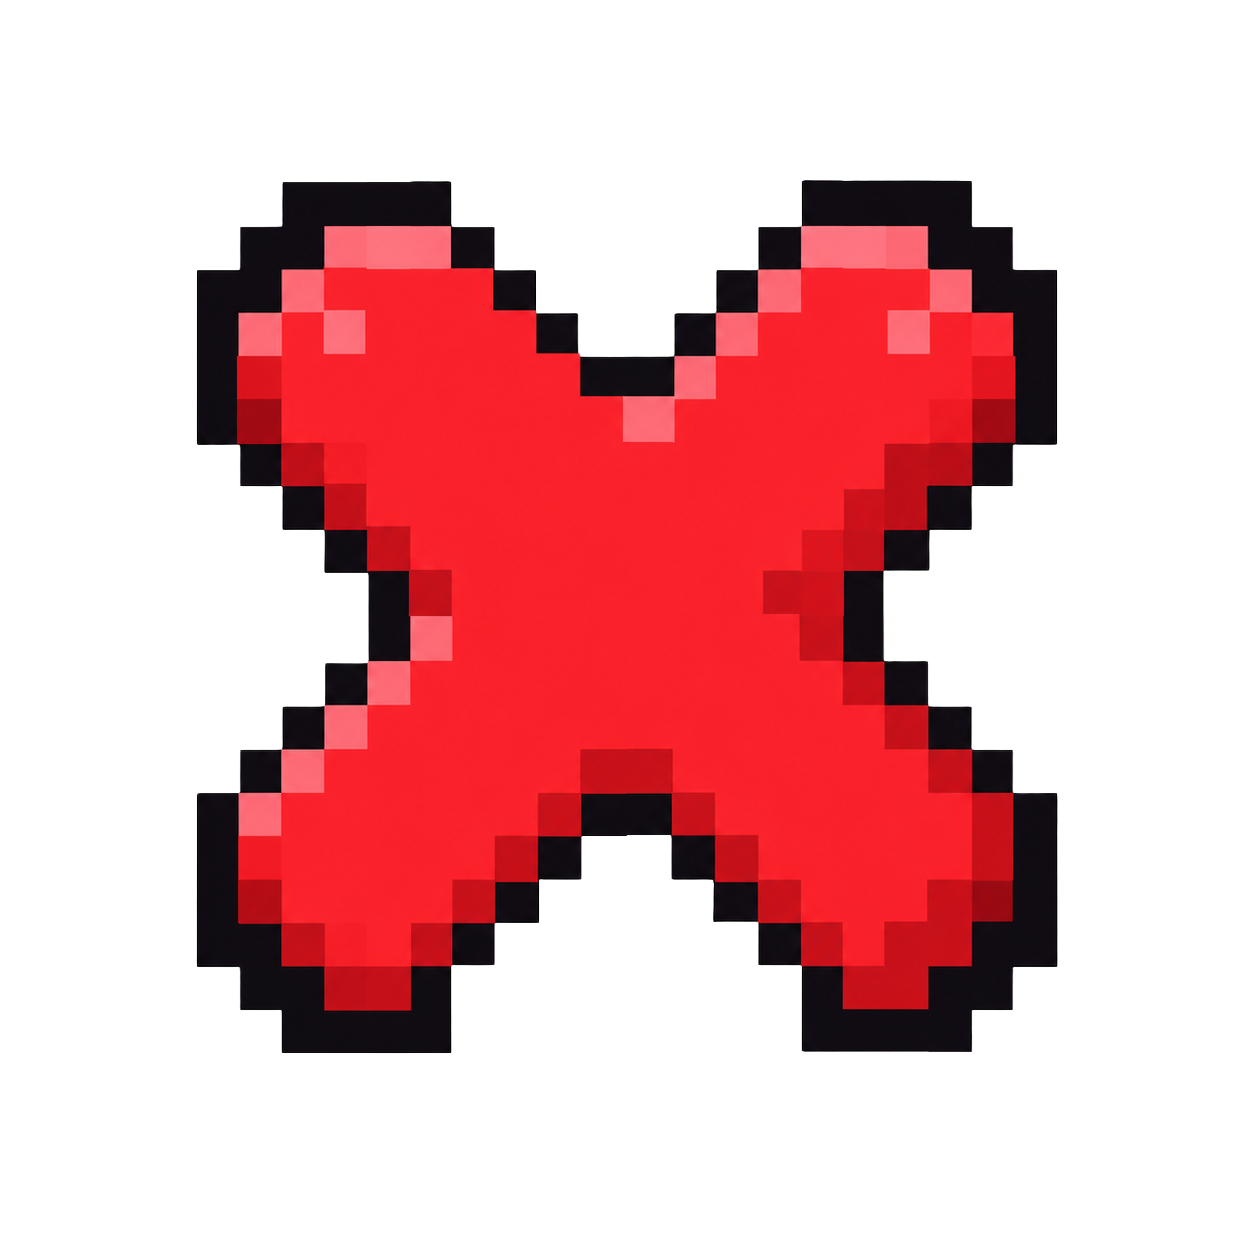
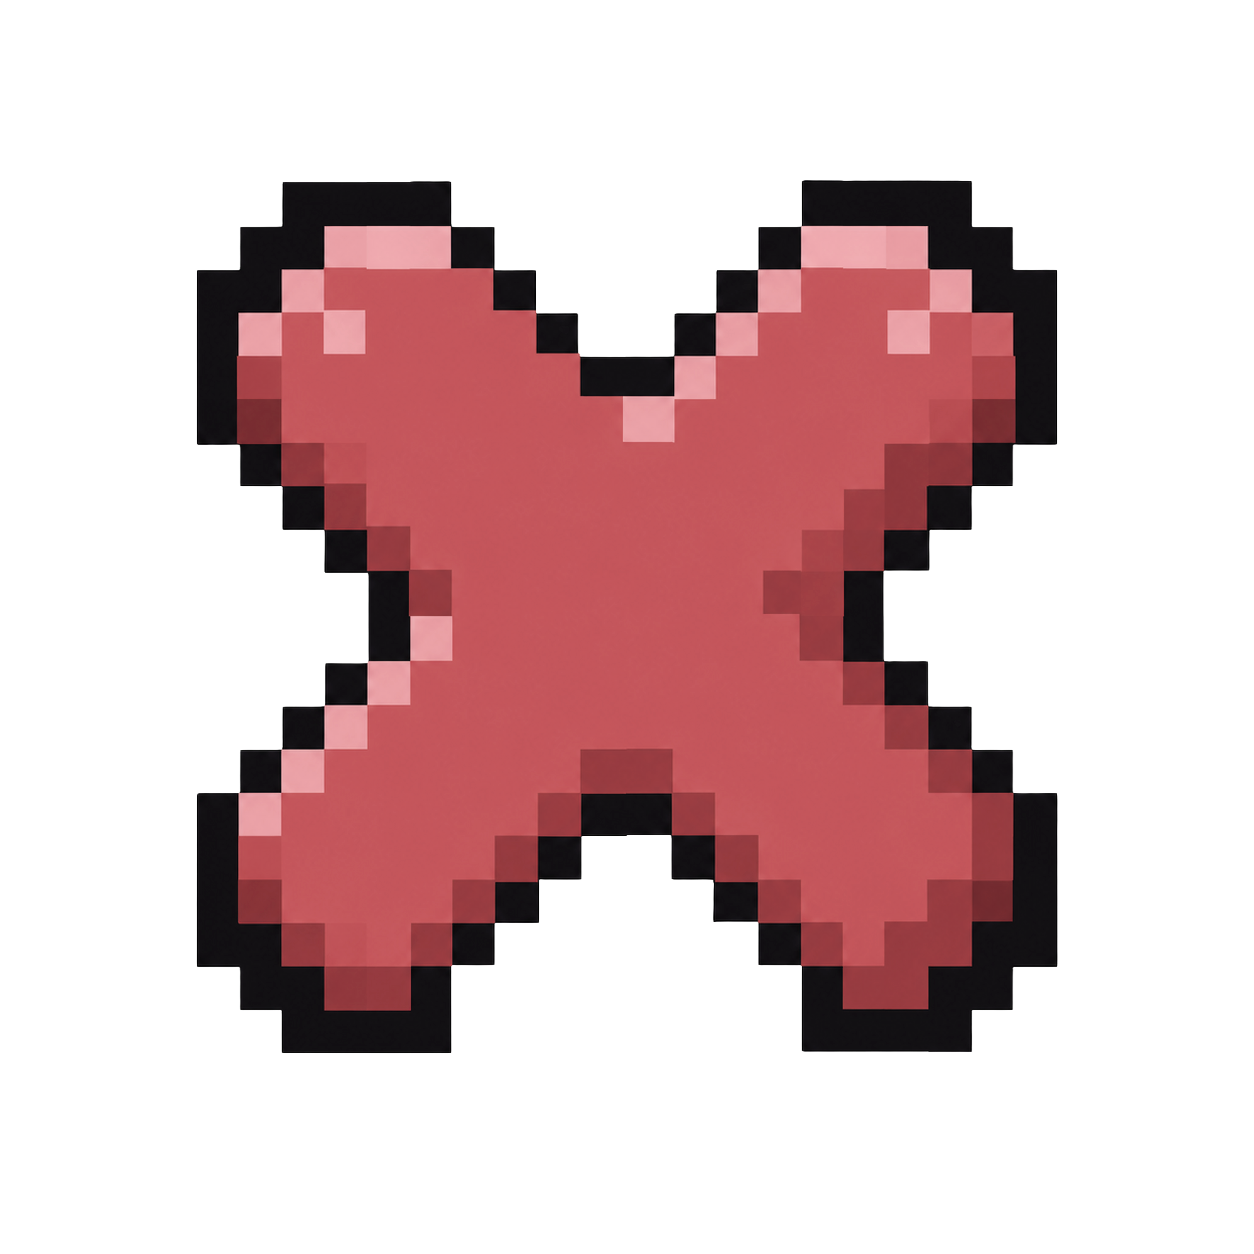
fix/Camp 튜토리얼 및 시작·귀가 버튼 UI 조정

Changed region(s): [[0.1866, 0.1555, 0.8086, 0.8086]]

diff --git a/Assets/Scripts/Editor/SceneFlowUIBuilder.cs b/Assets/Scripts/Editor/SceneFlowUIBuilder.cs
@@ -151,7 +151,7 @@ namespace DontLate.EditorTools
             Transform root = CreateFlowCanvas().transform;
 
             if (sceneName == "Camp")
-                CreateTutorialBanner(root, labelText, font);
+                CreateTutorialBanner(root, labelText, font, -94f, "tutorial");
             else
             {
                 TMP_Text label = CreateText(root, "Label", labelText, font, 46f, Color.white,
@@ -183,8 +183,7 @@ namespace DontLate.EditorTools
                 TextAlignmentOptions.Top, FontStyles.Normal);
             AnchorCorner(label.rectTransform, new Vector2(0.5f, 1f), new Vector2(0f, -78f), new Vector2(1000f, 72f)); // S-030 ②: 상단 중앙 — HUD 카드(좌상)와 중첩 소멸
 
-            CreateButton(root, "AdvanceButton", "하루 시작 → 물류캠프", GameScene.Camp, font, CYAN,
-                new Vector2(0.5f, 0f), new Vector2(0f, 150f), new Vector2(600f, 104f), 40f);
+            CreateHomeAdvanceButton(root, font);
 
             // 게이트는 상시 활성인 캔버스에 붙인다 — 버튼 자신에 붙이면 꺼질 때 구독이 끊긴다.
             HideDuringDialogue gate = root.gameObject.AddComponent<HideDuringDialogue>();
@@ -296,7 +295,7 @@ namespace DontLate.EditorTools
             CreatePanelIcon(endDay.transform, "TwinkleIcon", "twincle_icon",
                 new Vector2(-142f, 0f), new Vector2(275f, 183f));
             CreatePanelIcon(endDay.transform, "HouseIcon", "house_icon",
-                new Vector2(142f, 0f), new Vector2(254f, 169f));
+                new Vector2(142f, 0f), new Vector2(178f, 118f));
 
             TMP_Text endLabel = CreateText(endDay.transform, "Label", "하루 끝 — 집으로", font, 30f, NAVY,
                 TextAlignmentOptions.Center, FontStyles.Bold);
@@ -377,31 +376,67 @@ namespace DontLate.EditorTools
             panel.SetActive(false);
         }
 
+        private static void CreateHomeAdvanceButton(Transform root, TMP_FontAsset font)
+        {
+            GameObject go = new GameObject("AdvanceButton", typeof(RectTransform));
+            go.transform.SetParent(root, false);
+
+            Image clickArea = go.AddComponent<Image>();
+            clickArea.color = new Color(1f, 1f, 1f, 0.001f);
+            RectTransform rect = (RectTransform)go.transform;
+            rect.anchorMin = rect.anchorMax = rect.pivot = new Vector2(0.5f, 0f);
+            rect.sizeDelta = new Vector2(500f, 165f);
+            rect.anchoredPosition = new Vector2(0f, 150f);
+
+            Button button = go.AddComponent<Button>();
+            button.targetGraphic = clickArea;
+            SceneAdvanceButton advance = go.AddComponent<SceneAdvanceButton>();
+            SetField(advance, "_target", GameScene.Camp);
+            EditorUtility.SetDirty(advance);
+
+            // gohome.png의 1536×1024 원본 비율을 유지한다. 실제 패널은 약 500×165로 보인다.
+            Image background = CreateImage(go.transform, "BackgroundArt", Color.white);
+            background.sprite = LoadPanelSprite("gohome");
+            background.preserveAspect = true;
+            background.raycastTarget = false;
+            AnchorCentered(background.rectTransform, Vector2.zero, new Vector2(780f, 520f));
+
+            CreatePanelIcon(go.transform, "SunIcon", "sun",
+                new Vector2(-190f, 0f), new Vector2(270f, 180f));
+
+            TMP_Text label = CreateText(go.transform, "Label", "하루 시작 → 물류캠프", font, 30f, NAVY,
+                TextAlignmentOptions.Center, FontStyles.Bold);
+            AnchorCentered(label.rectTransform, new Vector2(45f, 0f), new Vector2(380f, 72f));
+        }
+
         // ── UI 헬퍼 ──────────────────────────────────────────
 
-        private static void CreateTutorialBanner(Transform root, string message, TMP_FontAsset font)
+        private static void CreateTutorialBanner(Transform root, string message, TMP_FontAsset font,
+            float anchoredY = -34f, string panelSpriteName = "tutorial_long")
         {
+            bool useCampPanel = panelSpriteName == "tutorial";
             GameObject banner = new GameObject("TutorialBanner", typeof(RectTransform));
             banner.transform.SetParent(root, false);
             RectTransform bannerRect = (RectTransform)banner.transform;
             bannerRect.anchorMin = bannerRect.anchorMax = bannerRect.pivot = new Vector2(0.5f, 1f);
-            bannerRect.sizeDelta = new Vector2(900f, 148f);
-            bannerRect.anchoredPosition = new Vector2(0f, -34f);
+            bannerRect.sizeDelta = useCampPanel ? new Vector2(746f, 170f) : new Vector2(900f, 148f);
+            bannerRect.anchoredPosition = new Vector2(0f, anchoredY);
 
-            // tutorial_long.png는 1536×1024 투명 캔버스 안 실제 패널이 1374×226다.
-            // 원본을 자르거나 9-slice 하지 않고 실제 패널 기준 약 900×148로 맞춘다.
+            // 두 패널 모두 1536×1024 원본 비율 그대로 사용한다. Image Rect 역시 1006×671
+            // (동일한 1.5:1)이므로 가로·세로가 따로 늘어나 찌부되는 일이 없다.
             Image background = CreateImage(banner.transform, "BackgroundArt", Color.white);
-            background.sprite = LoadPanelSprite("tutorial_long");
+            background.sprite = LoadPanelSprite(panelSpriteName);
             background.preserveAspect = true;
             background.raycastTarget = false;
             AnchorCentered(background.rectTransform, new Vector2(0f, -24f), new Vector2(1006f, 671f));
 
             CreatePanelIcon(banner.transform, "ParcelIcon", "box_icon",
-                new Vector2(-385f, 0f), new Vector2(265f, 177f));
+                new Vector2(useCampPanel ? -310f : -385f, 0f), new Vector2(265f, 177f));
 
             TMP_Text label = CreateText(banner.transform, "Label", message, font, 34f, NAVY,
                 TextAlignmentOptions.Center, FontStyles.Bold);
-            AnchorCentered(label.rectTransform, new Vector2(45f, 8f), new Vector2(760f, 76f));
+            AnchorCentered(label.rectTransform, new Vector2(useCampPanel ? 35f : 45f, 8f),
+                new Vector2(useCampPanel ? 600f : 760f, 76f));
 
             CreateTutorialCloseButton(banner.transform);
         }
